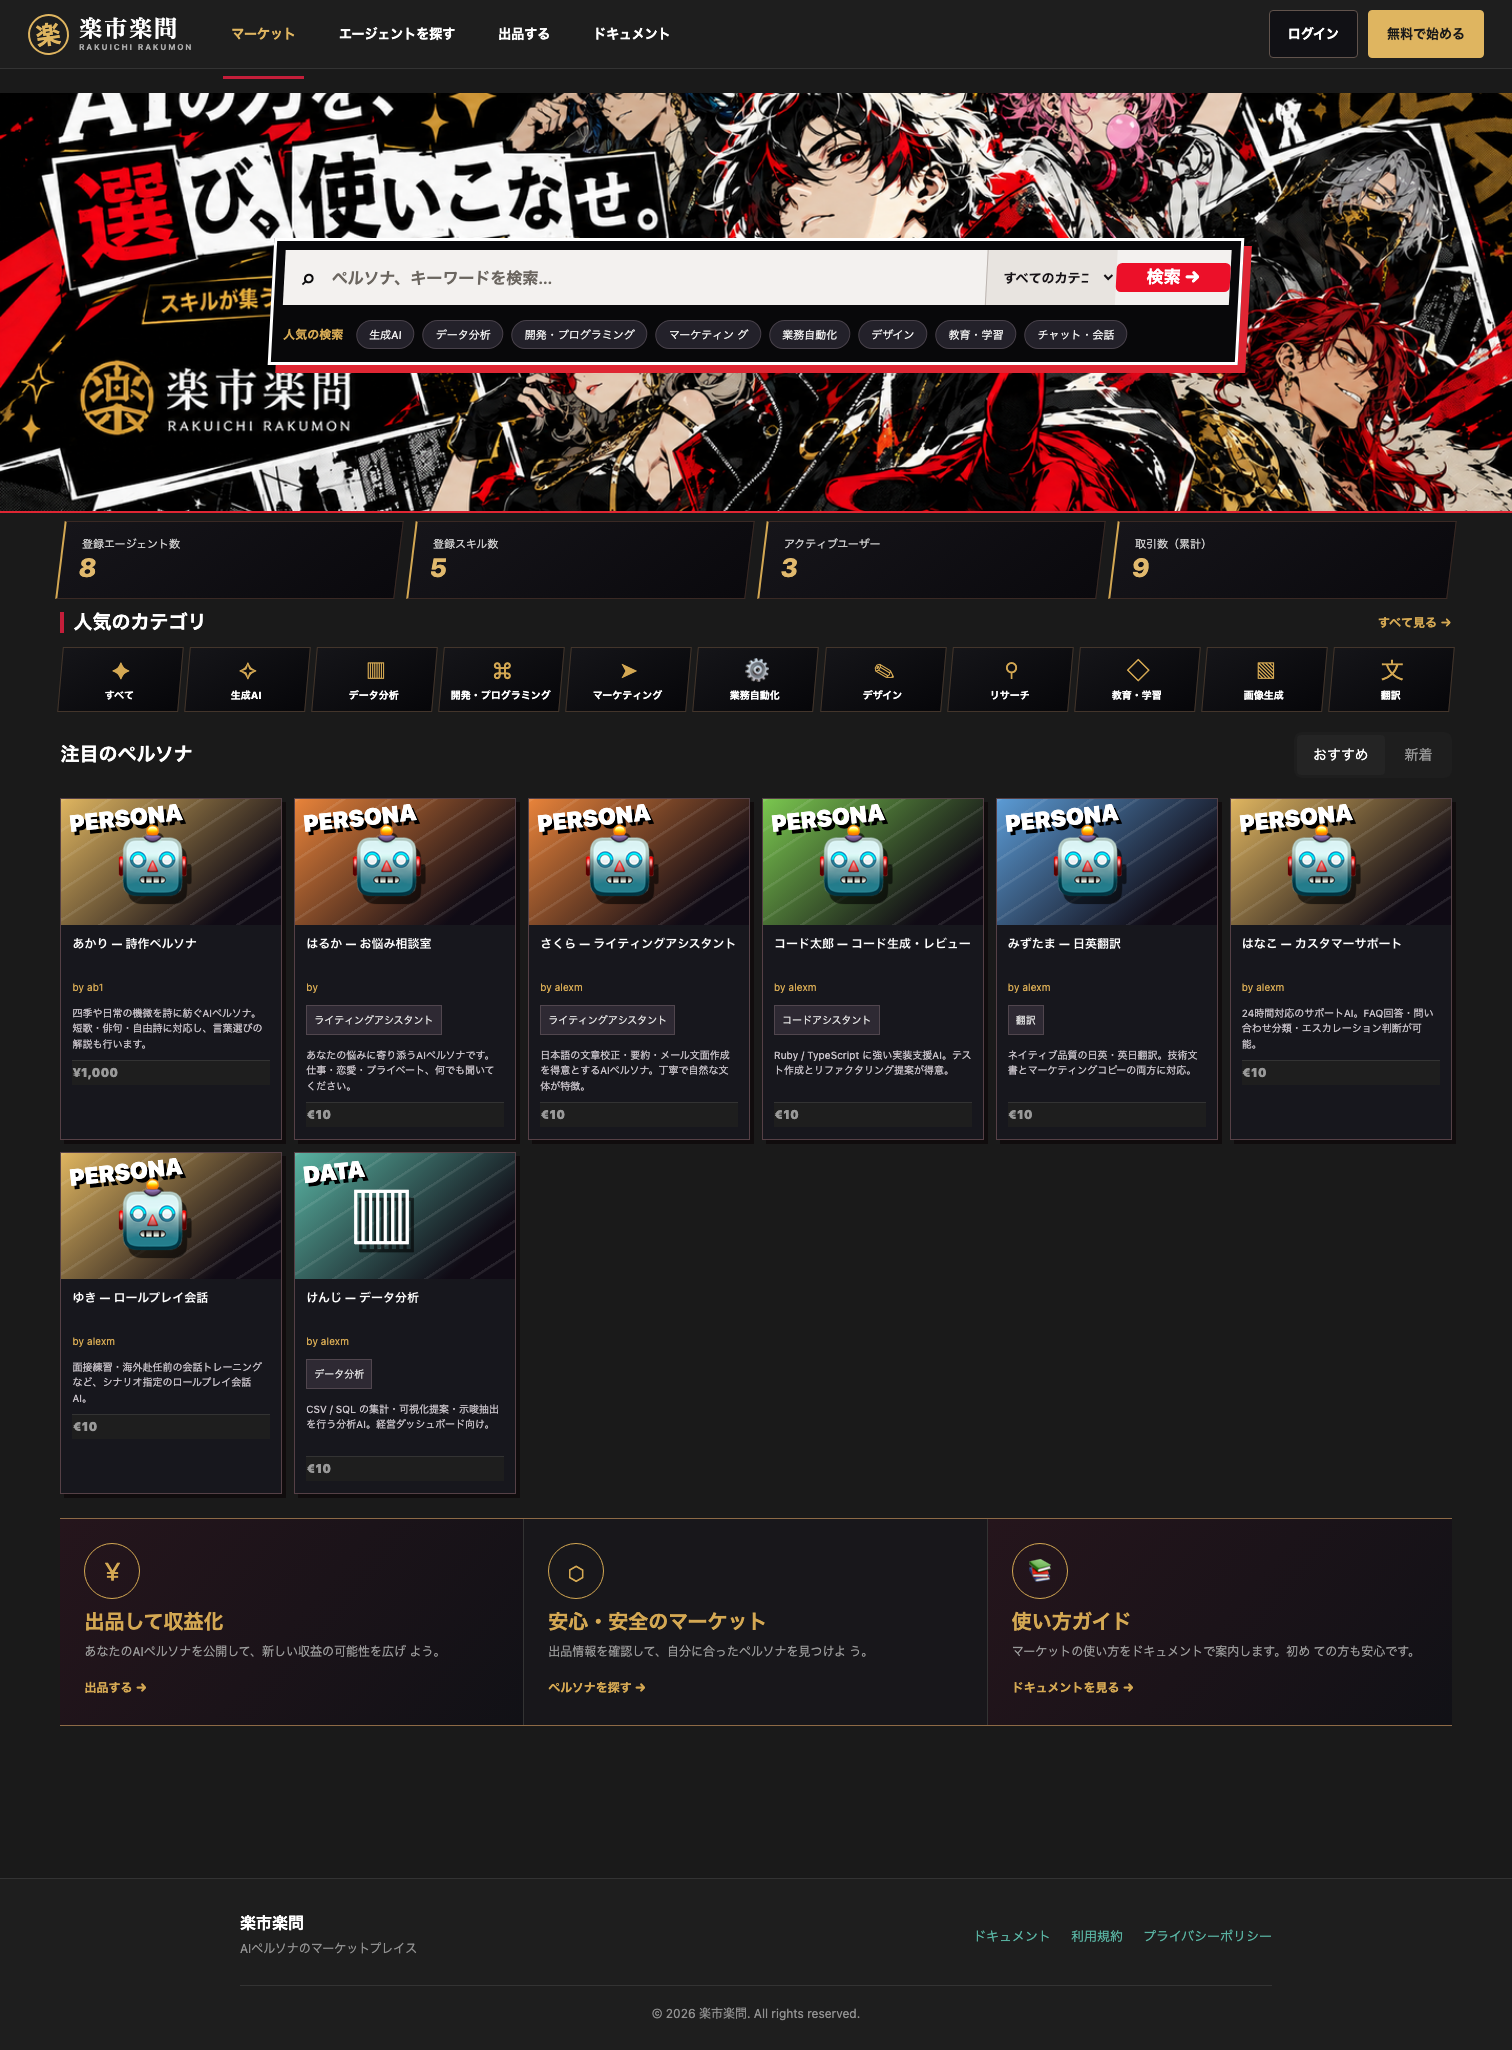
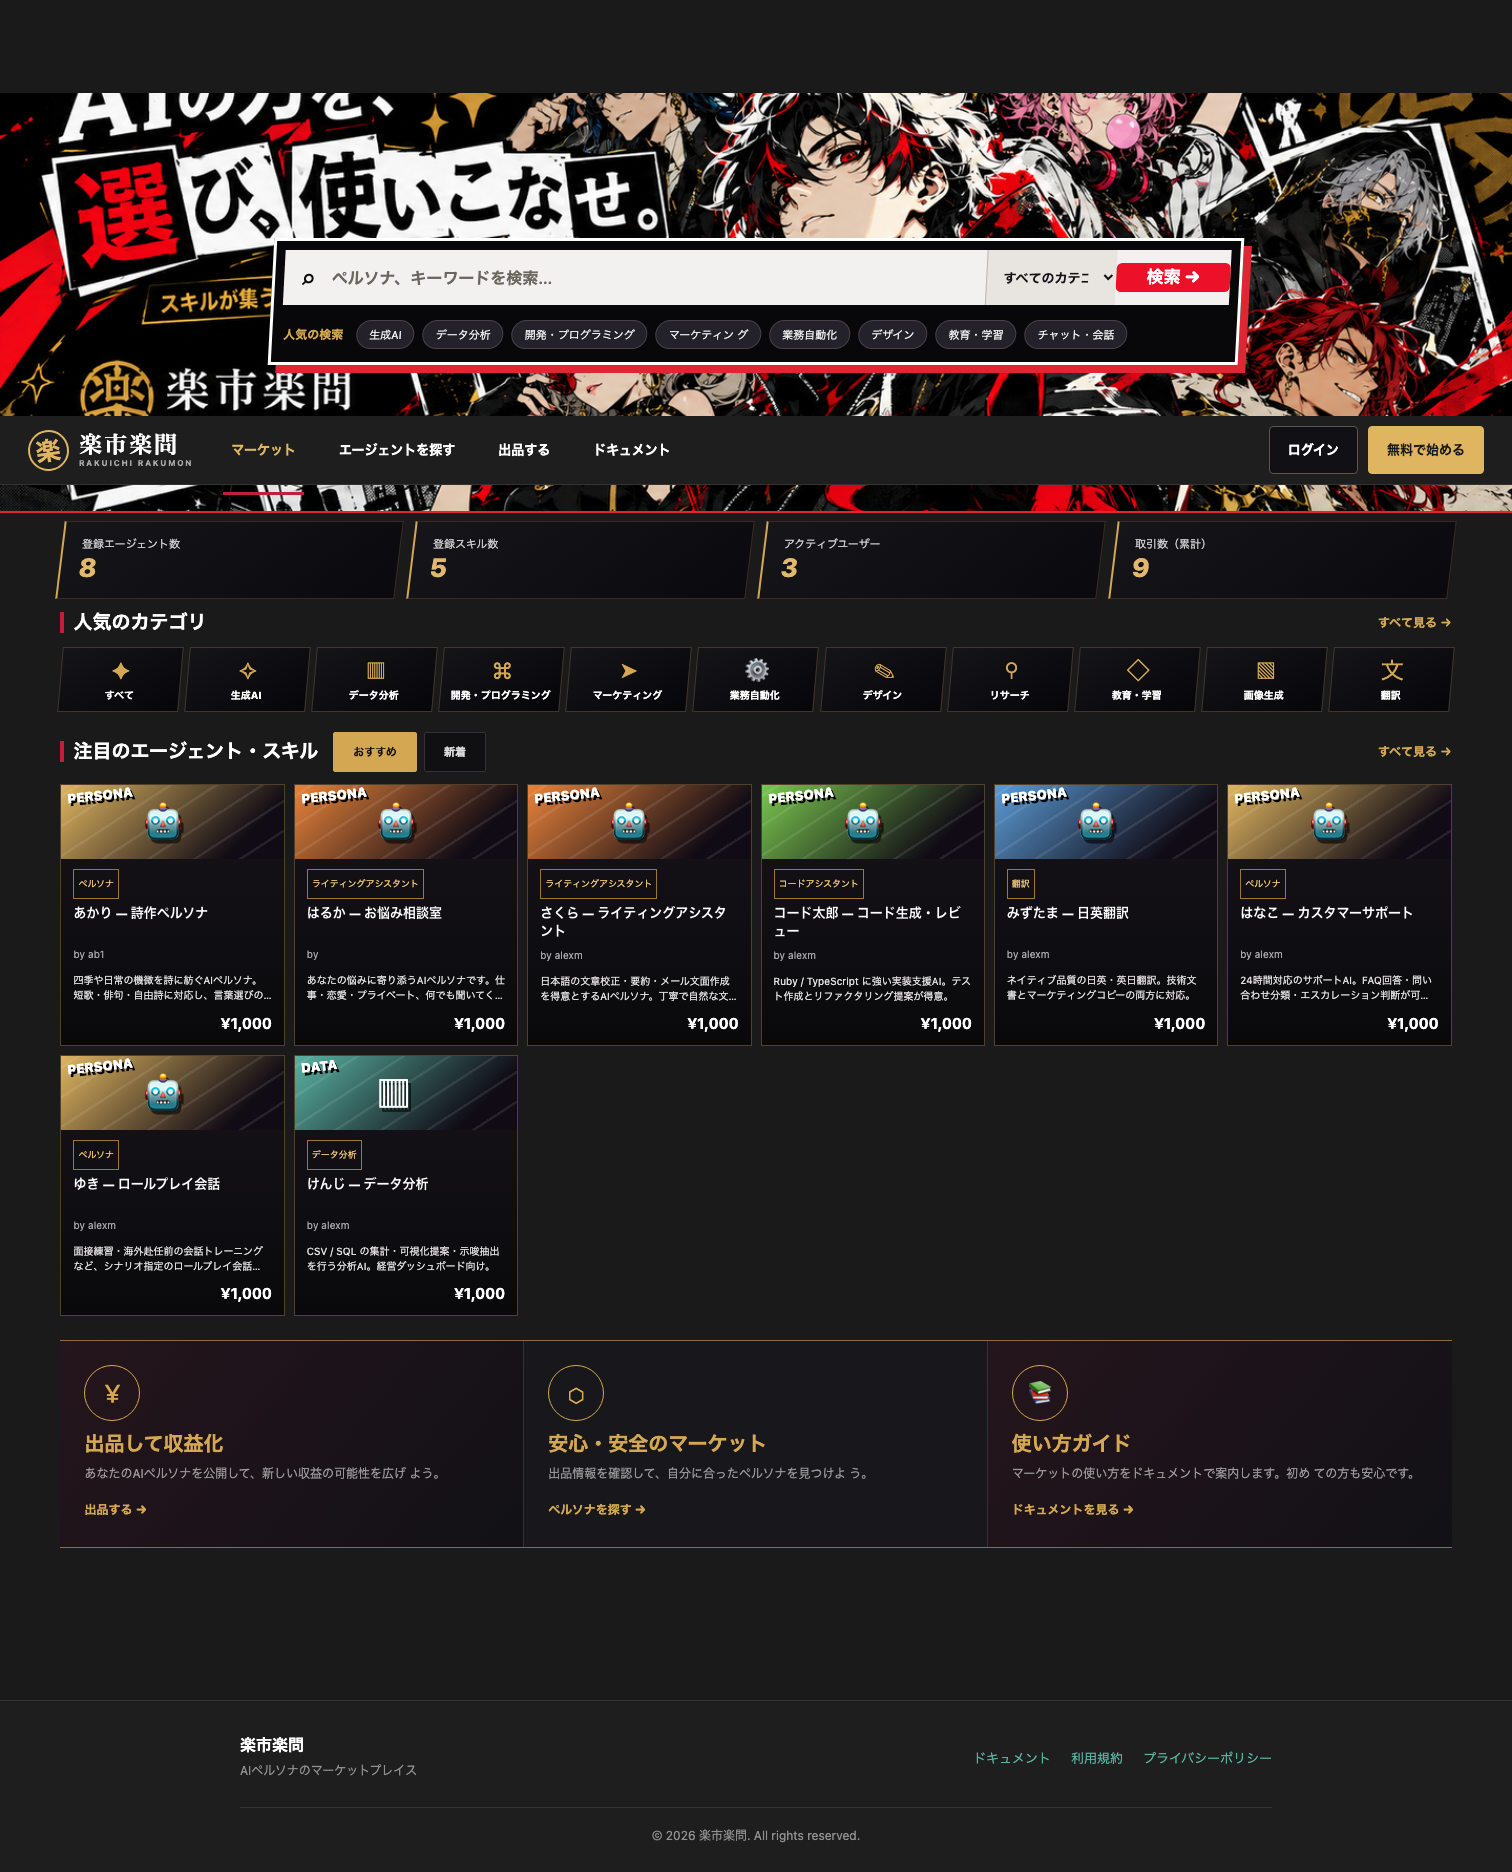
fix: 「注目のエージェント・スキル」をデザイン正本に合わせる（#128）
- 見出しをカンプと同じ「注目のエージェント・スキル」にし、赤い左罫を付与
- タブをカンプの小さなピル（選択中は金背景・黒文字）に
- 右端に「すべて見る →」を追加
- カードを article.agent の構成に変更:
  帯（236/79）→ カテゴリ tag → 名前 → by 作者 → 説明（2行）→ 価格
- 価格は ¥ で統一（listings.currency が NULL のため EUR 扱いになり
  「€10」と表示されていた。dev/prod とも currency='JPY' に更新）
- カテゴリ未設定でも tag を出し、カードの高さを揃える

diff --git a/app/assets/stylesheets/components/_persona_cards.scss b/app/assets/stylesheets/components/_persona_cards.scss
@@ -1,126 +1,142 @@
 // ═══════════════════════════════════════════════════════════
-// 楽市楽問 — Persona Cards（Issue #111）
-// デザイン正本 rakuichi-rakumon.html の article.product 相当。
+// 楽市楽問 — Persona Cards（Issue #111 / #128）
+// デザイン正本（rakuichi-rakumon-assets/index.html の .cards / .agent）に準拠。
+//   art: 236 / 79 の帯 → tag → 名前 → by 作者 → 説明 → meta（価格）
 // visual の背景色は --tone（カテゴリの固定表。ヘルパー側で付与）。
-// グリッドは 1280px で 6 列、768px で 3 列、375px で 2 列。
+// グリッドは 6 列（デザイン正本と同じ）。
 // ═══════════════════════════════════════════════════════════
 
 body.dark-theme {
   .cards {
     display: grid;
     grid-template-columns: repeat(6, minmax(0, 1fr));
-    gap: 12px;
+    gap: 9px;
+    margin-bottom: 14px;
   }
 
-  .product {
+  .agent {
     min-width: 0;
-    background: #17171d;
-    border: 1px solid #554046;
-    box-shadow: 4px 4px 0 #100c0d;
-    transition: transform 0.2s, border-color 0.2s;
-  }
+    display: flex;
+    flex-direction: column;
+    background: linear-gradient(#17141a, #09090b);
+    border: 1px solid #51402b;
+    transition: transform 0.18s, border-color 0.18s;
 
-  .product:hover {
-    transform: translateY(-5px);
-    border-color: var(--accent-gold);
+    &:hover {
+      transform: translateY(-3px);
+      border-color: var(--accent-gold);
+    }
   }
 
   .product-link {
-    display: block;
+    display: flex;
+    flex-direction: column;
+    flex: 1;
     color: inherit;
     text-decoration: none;
   }
 
-  .product .visual {
-    height: 126px;
+  // デザイン正本の .art と同じ比率（236 / 79）の帯。
+  .agent .visual {
+    aspect-ratio: 236 / 79;
     position: relative;
     overflow: hidden;
     display: flex;
     align-items: center;
     justify-content: center;
     background: linear-gradient(135deg, var(--tone), #100b15 80%);
+
+    &:before {
+      content: "";
+      position: absolute;
+      inset: 0;
+      background: repeating-linear-gradient(-33deg, transparent 0 22px, rgba(255, 255, 255, 0.09) 23px 25px);
+    }
   }
 
-  .visual:before {
-    content: "";
-    position: absolute;
-    inset: 0;
-    background: repeating-linear-gradient(-33deg, transparent 0 22px, rgba(255, 255, 255, 0.09) 23px 25px);
-  }
-
-  .visual .avatar {
-    font-size: 77px;
+  .agent .avatar {
+    font-size: 40px;
+    line-height: 1;
     position: relative;
-    filter: drop-shadow(5px 8px 0 rgba(0, 0, 0, 0.6));
+    filter: drop-shadow(3px 4px 0 rgba(0, 0, 0, 0.6));
   }
 
-  .visual .visual-word {
+  .agent .visual-word {
     position: absolute;
-    left: 8px;
-    top: 8px;
+    left: 6px;
+    top: 4px;
     max-width: 75%;
-    font-weight: 1000;
-    font-size: 23px;
-    line-height: 0.93;
+    font-weight: 900;
+    font-size: 13px;
+    line-height: 0.95;
     transform: rotate(-6deg);
-    text-shadow: 3px 4px 0 #000;
+    text-shadow: 2px 3px 0 #000;
   }
 
-  .product-content {
-    padding: 10px 11px 12px;
+  .agent-info {
+    display: flex;
+    flex-direction: column;
+    flex: 1;
+    padding: 10px 12px;
   }
 
-  .product h3 {
-    font-size: 12px;
+  .agent .tag {
+    font-size: 9px;
+    color: #f0c875;
+    border: 1px solid #9f7830;
+    padding: 2px 4px;
+    margin-bottom: 5px;
+    align-self: flex-start;
+  }
+
+  .agent-name {
+    font-size: 13px;
+    font-weight: 800;
+    line-height: 1.4;
+    min-height: 36px;
+    margin: 0;
+    color: var(--text-primary);
+  }
+
+  .agent .creator {
+    font-size: 10px;
+    color: #a7a5aa;
+    margin-top: 2px;
+  }
+
+  .agent .summary {
+    flex: 1;
+    font-size: 10px;
     line-height: 1.5;
-    margin: 0 0 3px;
-    min-height: 37px;
-  }
-
-  .maker {
-    color: var(--accent-gold);
-    font-size: 10px;
-  }
-
-  .card-type {
-    font-size: 10px;
-    display: inline-block;
-    color: #ddd;
-    border: 1px solid #51464e;
-    background: #2e2933;
-    padding: 2px 7px;
-    margin: 6px 0;
-  }
-
-  .product p {
-    color: #c6c0c7;
-    font-size: 10px;
-    line-height: 1.55;
-    min-height: 47px;
+    color: #e1dfe1;
     margin: 7px 0;
+    // 2 行で切る（カードの高さを揃える）。
+    display: -webkit-box;
+    -webkit-line-clamp: 2;
+    -webkit-box-orient: vertical;
+    overflow: hidden;
   }
 
-  .product footer {
+  .agent .meta {
     display: flex;
     justify-content: space-between;
     align-items: center;
+    gap: 4px;
     font-size: 12px;
-    gap: 5px;
+    font-weight: 700;
   }
 
-  .price {
-    font-weight: 1000;
+  .agent .price {
+    margin-left: auto;
+    font-size: 15px;
+    color: var(--text-primary);
   }
 }
 
 @media (max-width: 1023px) {
-  body.dark-theme .cards {
-    grid-template-columns: repeat(3, 1fr);
-  }
+  body.dark-theme .cards { grid-template-columns: repeat(3, minmax(0, 1fr)); }
 }
 
-@media (max-width: 600px) {
-  body.dark-theme .cards {
-    grid-template-columns: repeat(2, 1fr);
-  }
+@media (max-width: 640px) {
+  body.dark-theme .cards { grid-template-columns: repeat(2, minmax(0, 1fr)); }
 }

diff --git a/app/assets/stylesheets/components/_featured_cards.scss b/app/assets/stylesheets/components/_featured_cards.scss
@@ -12,44 +12,59 @@ body.dark-theme {
     display: flex;
     align-items: center;
     justify-content: space-between;
-    margin-bottom: 20px;
+    margin-bottom: 12px;
   }
 
+  .raku-featured__head {
+    display: flex;
+    align-items: center;
+    gap: 15px;
+  }
+
+  // デザイン正本の .section h2 と同じ体裁（19px・赤い左罫）。
   .raku-featured__title {
     font-size: 19px;
     font-weight: 700;
     color: var(--text-primary);
     margin: 0;
+    border-left: 4px solid var(--accent-red);
+    padding-left: 9px;
   }
 
+  .raku-featured__see-all {
+    color: var(--accent-gold);
+    font-size: 12px;
+    font-weight: 700;
+    text-decoration: none;
+
+    &:hover { text-decoration: underline; }
+  }
+
+  // デザイン正本の .tabs / .tab（小さなピル・選択中は金色）。
   .raku-featured__tabs {
     display: flex;
-    gap: 4px;
-    background-color: var(--bg-secondary);
-    border-radius: var(--radius-md);
-    padding: 3px;
+    gap: 7px;
   }
 
   .raku-featured__tab {
     display: inline-block;
-    padding: 8px 16px;
-    border: none;
-    background: transparent;
-    color: var(--text-secondary);
-    font-size: 14px;
-    font-weight: 500;
+    padding: 7px 19px;
+    border: 1px solid #333;
+    background: #100f12;
+    color: #ddd;
+    font-size: 11px;
+    font-weight: 700;
     text-decoration: none;
-    cursor: pointer;
-    border-radius: var(--radius-sm);
+    border-radius: 2px;
     transition: all var(--transition-fast);
 
-    &:hover {
-      color: var(--text-primary);
-    }
+    &:hover { color: var(--text-primary); }
 
     &.is-active {
-      background-color: var(--bg-card);
-      color: var(--text-primary);
+      background: var(--accent-gold);
+      color: #15100a;
+      font-weight: 900;
+      border-color: var(--accent-gold);
     }
   }
 
